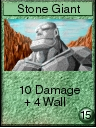
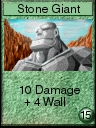
1. Replace card on drop spot works 2. drop doesn't work on ie10

Changed region(s): [[0.0, 0.9688, 1.0, 1.0]]

diff --git a/Game.php b/Game.php
@@ -12,6 +12,7 @@ if( verifyCookie() ) {
     <title>Game Page</title>
     <script>
         function allowDrop(ev) {
+            ev.stopPropagation();
             ev.preventDefault();
         }
 
@@ -24,7 +25,7 @@ if( verifyCookie() ) {
             ev.preventDefault();
             var elmID = ev.dataTransfer.getData("ElementID");
             var cardID = ev.dataTransfer.getData("CardID");
-            ev.target.appendChild(document.getElementById(elmID));
+            ev.target.src = document.getElementById(elmID).src;
             PerformAction(cardID);
         }
 
@@ -66,7 +67,7 @@ if( verifyCookie() ) {
                         document.getElementById("userMessages").innerHTML = "YOUR TURN!";
                     }
                     else {
-                        document.getElementById("userMessages").innerHTML = opponentGameStat['nickname'] + "'S TURN";
+                        document.getElementById("userMessages").innerHTML = "Opponent's turn";
                     }
 
                     // Update opponent's game stat on screen
@@ -100,7 +101,7 @@ if( verifyCookie() ) {
                     response = xmlhttp.responseText;
                     if (response.indexOf("Error:") !== -1) {
                         alert(response.substr(7));
-                        }
+                    }
                 }
             }
 
@@ -112,6 +113,9 @@ if( verifyCookie() ) {
 
         window.onload = function () {
             RefreshView();
+            var dropArea = document.getElementById("played_card");
+            dropArea.addEventListener("drop", allowDrop(event), false);
+            dropArea.addEventListener("dragover", drop(event), false)
         }
     </script>
 </head>
@@ -160,7 +164,9 @@ if( verifyCookie() ) {
                 <img id="deck" src="Images/back.jpg" alt="deck" width="120" height="180" />
             </td>
 
-            <td ondrop="drop(event)" ondragover="allowDrop(event)" style="height:180px;width:120px;"></td>
+            <td style="height:180px;width:120px;">
+                <img id="played_card" title="" src="Images/place_card.png" alt="card1" ondrop="drop(event)" ondragover="allowDrop(event)" width="120" height="180" />
+            </td>
 
             <td rowspan="2" colspan="2" style="vertical-align: bottom; text-align: center;">
                 <span style="background-color: #ffd800 ; position: relative; bottom: 0px;">

diff --git a/GameLogic.php b/GameLogic.php
@@ -22,7 +22,6 @@ function get_played_card_num(){
         echo "get_played_card_num SQL failed: (" . $mysqli->errno . ") " . $mysqli->error;
     }
     $row = $my_result->fetch_array();
-    echo $card_location . "_id";
     return $row[$card_location . "_id"];
 }
 
@@ -48,10 +47,10 @@ function get_enemy_game_stat()
 
 function get_new_card()
 {
-    global $mysqli, $game_id, $nickname, $cardLocation;
+    global $mysqli, $game_id, $nickname, $card_location;
     
-    $cardLocation = $cardLocation . "_id";
-    $my_result = $mysqli->query("UPDATE games SET $cardLocation = " .rand(0,102). " WHERE game_id = '$game_id' AND nickname = '$nickname'");
+    $card_id =  $card_location . "_id";
+    $my_result = $mysqli->query("UPDATE games SET $card_id = " .rand(0,102). " WHERE game_id = '$game_id' AND nickname = '$nickname'");
     if (!$my_result){
         echo "get_new_card SQL failed: (" . $mysqli->errno . ") " . $mysqli->error;
     }
